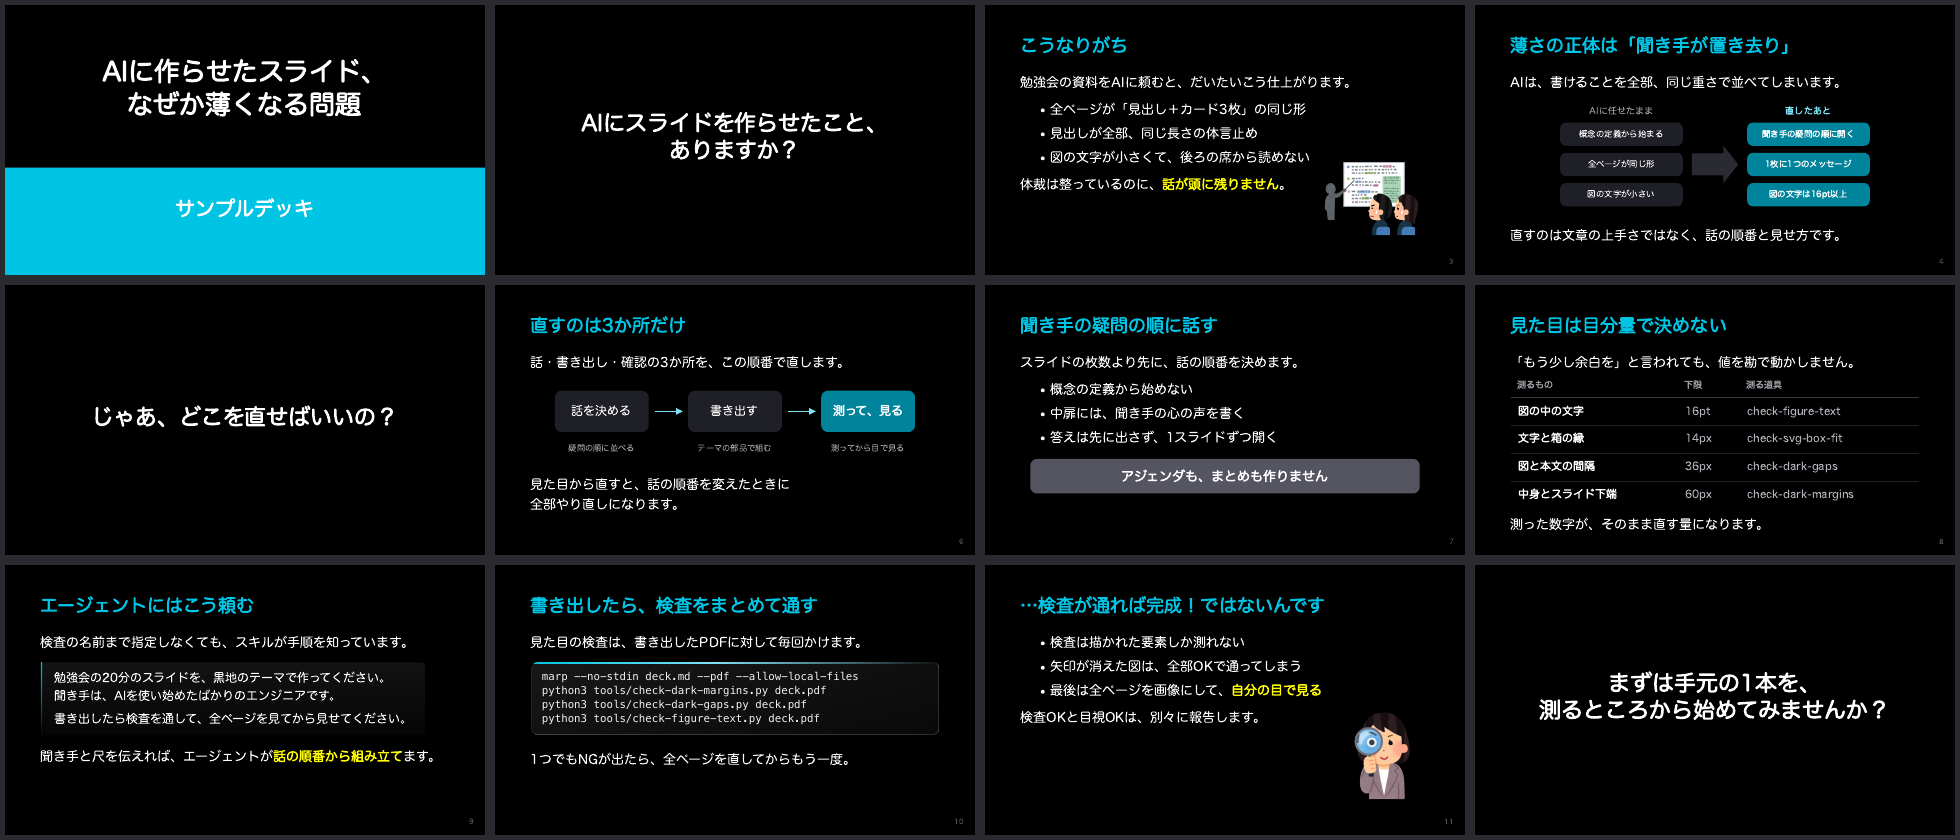
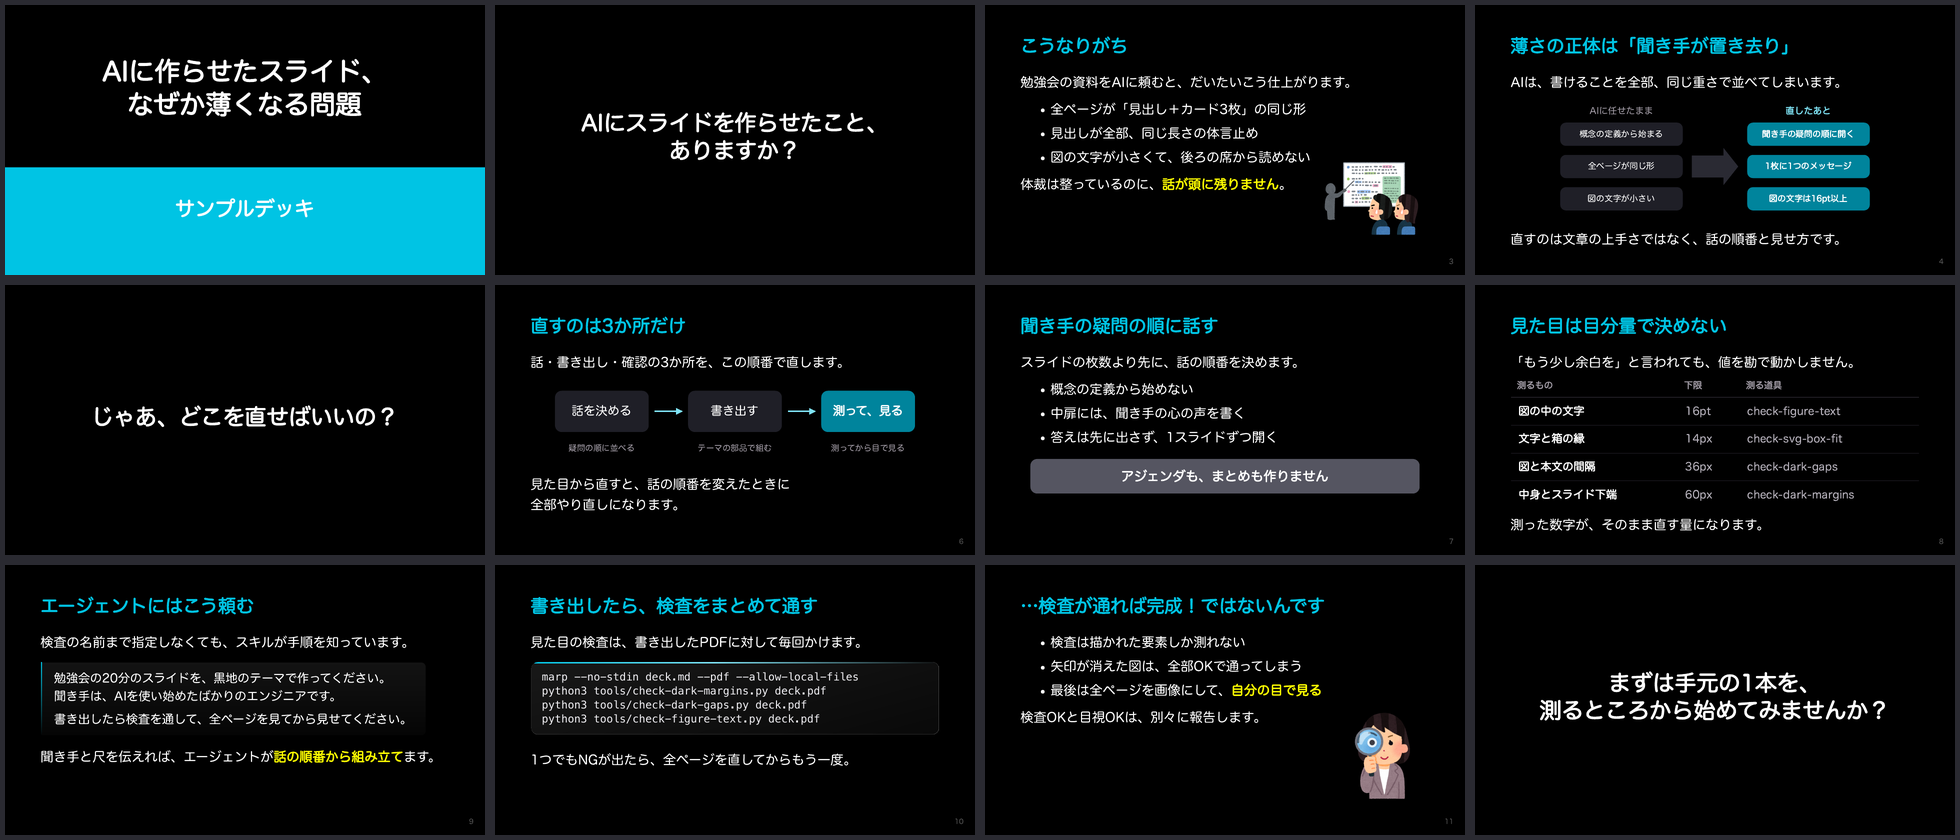
スライドの規則を足す：並べるのは3つまで・冒頭の問いの立て方・題材とシナリオの通し読み・依頼文の短くし方など、図の間隔を測る check-svg-spacing を追加

diff --git a/examples/sample/images/build-figs.py b/examples/sample/images/build-figs.py
@@ -63,7 +63,7 @@ write("flow", svg("0 0 1000 210", "\n".join(parts)))
 # 2. 直す前と直したあと。左は脇役の箱、右は主役の色。あいだの大きな矢印は方向の面
 before = ["概念の定義から始まる", "全ページが同じ形", "図の文字が小さい"]
 after = ["聞き手の疑問の順に開く", "1枚に1つのメッセージ", "図の文字は16pt以上"]
-W, CW, RH, RG, TOP = 1000, 380, 72, 22, 60
+W, CW, RH, RG, TOP = 1000, 380, 72, 28, 60
 parts = [text(20 + CW / 2, 34, "AIに任せたまま", 28, fill=GRAY),
          text(W - 20 - CW / 2, 34, "直したあと", 28, fill=LINE, bold=True)]
 for i, (b, a) in enumerate(zip(before, after)):

diff --git a/README.md b/README.md
@@ -31,7 +31,7 @@ Claude デスクトップアプリの「Code」タブ（または Claude Code）
 
 1. リポジトリを `~/.claude/skill-repos/minorun-marp-skill` へ置く。無ければ `git clone`、あれば `git pull`
 2. `skills/` の3つ（`slide-story` `slide-figures` `slide-design-dark`）を `~/.claude/skills/` へコピーする。同じ名前があれば上書きする
-3. 書き出しと検査に使う道具があるかを確かめ、無いものを入れる。[Marp CLI](https://github.com/marp-team/marp-cli)（`npm i -g @marp-team/marp-cli`）、Google Chrome、poppler と mupdf-tools（macOS なら `brew install poppler mupdf-tools`）、Python 3 と Pillow。`check-svg-box-fit.mjs` と `check-svg-contrast.mjs` は Marp CLI 同梱の puppeteer-core を借りるので、場所が違う環境では `MARP_NODE_MODULES` と `CHROME_PATH` で指定する
+3. 書き出しと検査に使う道具があるかを確かめ、無いものを入れる。[Marp CLI](https://github.com/marp-team/marp-cli)（`npm i -g @marp-team/marp-cli`）、Google Chrome、poppler と mupdf-tools（macOS なら `brew install poppler mupdf-tools`）、Python 3 と Pillow。`check-svg-box-fit.mjs`・`check-svg-spacing.mjs`・`check-svg-contrast.mjs` は Marp CLI 同梱の puppeteer-core を借りるので、場所が違う環境では `MARP_NODE_MODULES` と `CHROME_PATH` で指定する
 4. 結果は、何が使えるようになったかと頼み方の例を、コマンドを見せずに平易な言葉で伝える
 
 スライドを作るときは、`~/.claude/skill-repos/minorun-marp-skill` から `theme/` と `tools/` を作業フォルダへコピーして使う。
@@ -45,6 +45,7 @@ python3 tools/check-figure-text.py deck.pdf     # 図の中の小さい文字、
 python3 tools/check-line-breaks.py deck.pdf     # 改行のしすぎと、読点の後ろの切れ端
 python3 tools/check-bubble-tails.py deck.md     # 吹き出しのしっぽの継ぎ目に線が出る書き方
 node tools/check-svg-box-fit.mjs images/*.svg   # SVGの文字が箱に収まっているか
+node tools/check-svg-spacing.mjs images/*.svg  # SVGの箱や行、線と文字の間隔が詰まっていないか
 node tools/check-svg-contrast.mjs images/*.svg  # SVGの図形が下の面と同じ色で沈んでいないか
 python3 tools/check-reuse-diff.py new.md old.md # 流用したスライドの、見出しと図の対応
 python3 tools/check-ai-smell.py deck.md         # 書き換えたスライドの文の型の反復
